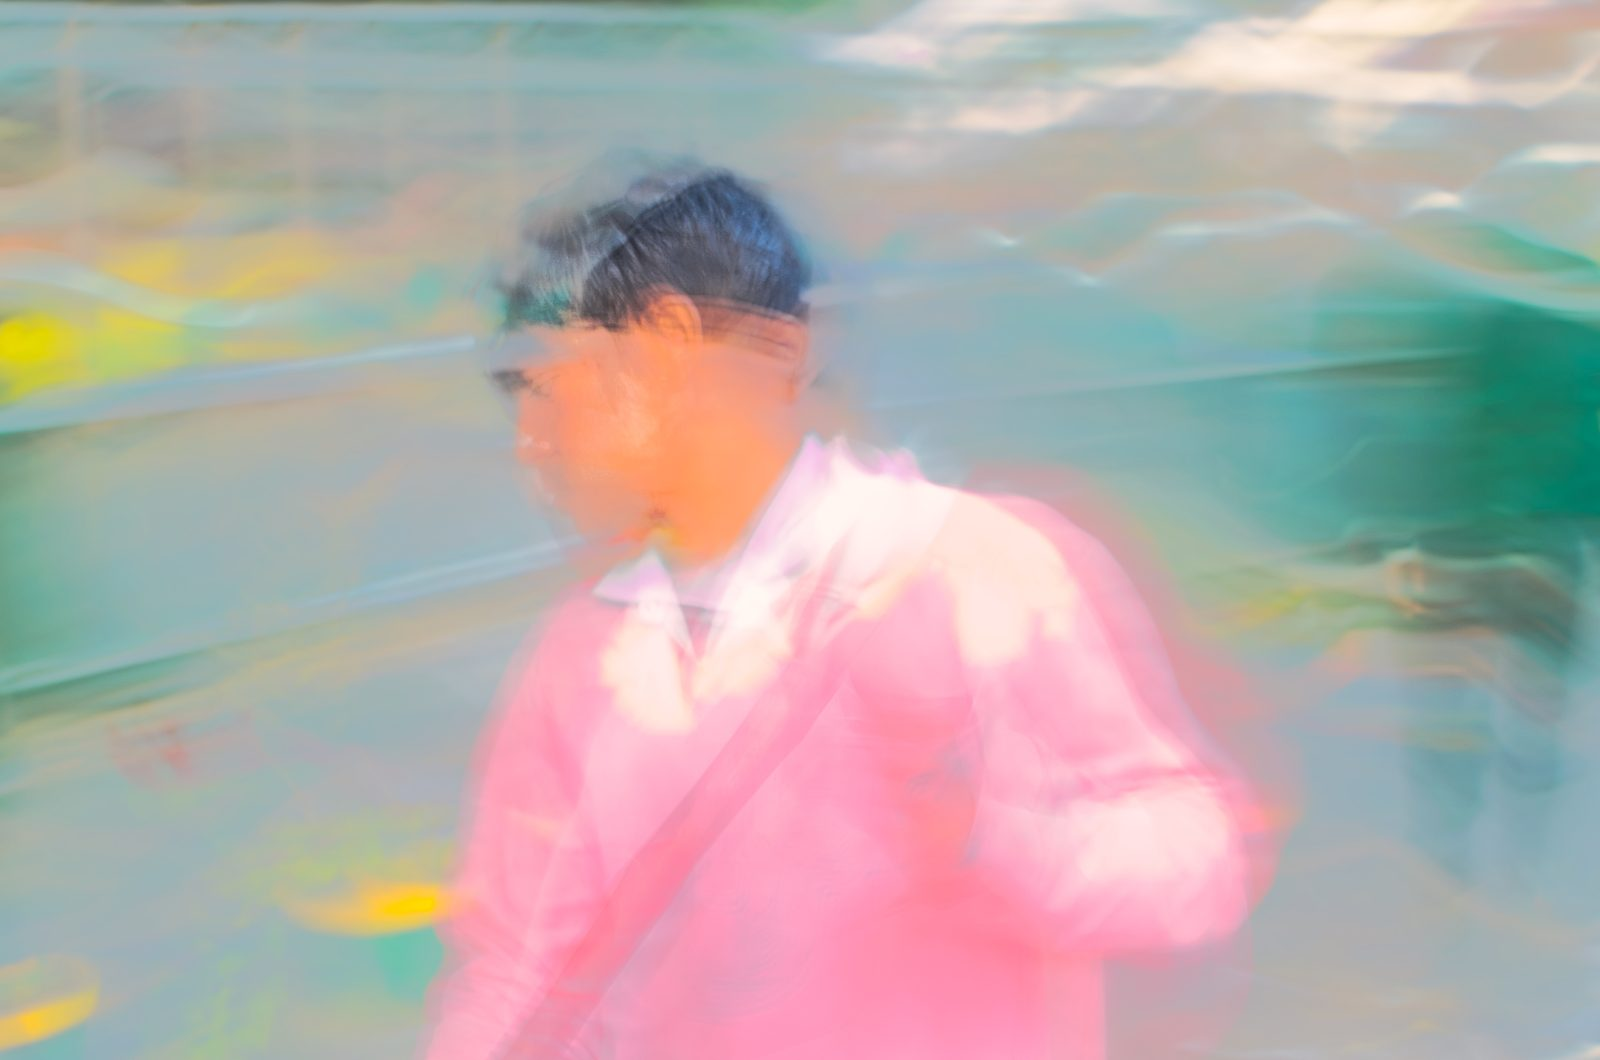
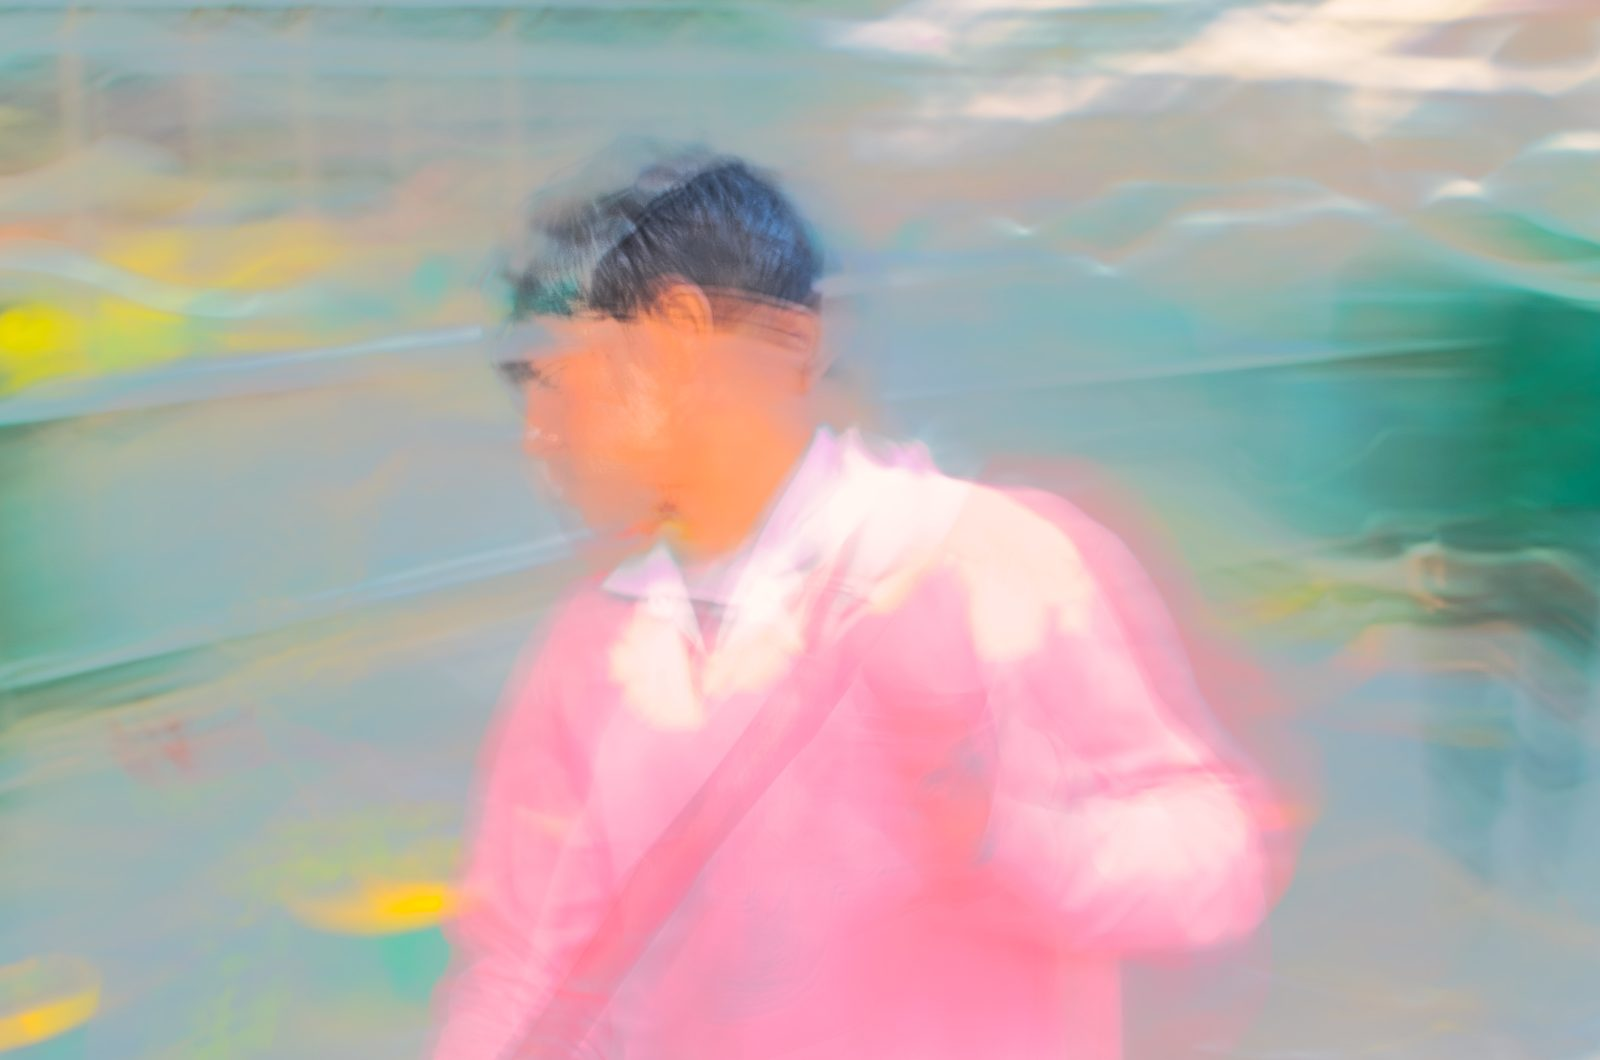
Nr. 8: neueste Fassung

diff --git a/en/overview.html b/en/overview.html
@@ -94,10 +94,10 @@
         </a>
       </li>
       <li>
-        <a href="../bilder/werk-08-2400.jpg?v=46ea5eb6" data-gross="../bilder/werk-08-2400.jpg?v=46ea5eb6"
-           data-srcset="../bilder/werk-08-1600.jpg?v=46ea5eb6 1600w, ../bilder/werk-08-2400.jpg?v=46ea5eb6 2400w"
+        <a href="../bilder/werk-08-2400.jpg?v=af008b46" data-gross="../bilder/werk-08-2400.jpg?v=af008b46"
+           data-srcset="../bilder/werk-08-1600.jpg?v=af008b46 1600w, ../bilder/werk-08-2400.jpg?v=af008b46 2400w"
            data-unterschrift="No. 8 · 2024">
-          <img src="../bilder/werk-08-1600.jpg?v=46ea5eb6" srcset="../bilder/werk-08-1000.jpg?v=46ea5eb6 1000w, ../bilder/werk-08-1600.jpg?v=46ea5eb6 1600w, ../bilder/werk-08-2400.jpg?v=46ea5eb6 2400w" sizes="(min-width: 1100px) 22vw, (min-width: 700px) 30vw, 45vw" width="1600" height="1059" alt="Photograph No. 8, 2024" loading="eager" decoding="async" fetchpriority="high">
+          <img src="../bilder/werk-08-1600.jpg?v=af008b46" srcset="../bilder/werk-08-1000.jpg?v=af008b46 1000w, ../bilder/werk-08-1600.jpg?v=af008b46 1600w, ../bilder/werk-08-2400.jpg?v=af008b46 2400w" sizes="(min-width: 1100px) 22vw, (min-width: 700px) 30vw, 45vw" width="1600" height="1059" alt="Photograph No. 8, 2024" loading="eager" decoding="async" fetchpriority="high">
           <span class="bu-nr">No. 8</span>
         </a>
       </li>

diff --git a/uebersicht.html b/uebersicht.html
@@ -94,10 +94,10 @@
         </a>
       </li>
       <li>
-        <a href="bilder/werk-08-2400.jpg?v=46ea5eb6" data-gross="bilder/werk-08-2400.jpg?v=46ea5eb6"
-           data-srcset="bilder/werk-08-1600.jpg?v=46ea5eb6 1600w, bilder/werk-08-2400.jpg?v=46ea5eb6 2400w"
+        <a href="bilder/werk-08-2400.jpg?v=af008b46" data-gross="bilder/werk-08-2400.jpg?v=af008b46"
+           data-srcset="bilder/werk-08-1600.jpg?v=af008b46 1600w, bilder/werk-08-2400.jpg?v=af008b46 2400w"
            data-unterschrift="Nr. 8 · 2024">
-          <img src="bilder/werk-08-1600.jpg?v=46ea5eb6" srcset="bilder/werk-08-1000.jpg?v=46ea5eb6 1000w, bilder/werk-08-1600.jpg?v=46ea5eb6 1600w, bilder/werk-08-2400.jpg?v=46ea5eb6 2400w" sizes="(min-width: 1100px) 22vw, (min-width: 700px) 30vw, 45vw" width="1600" height="1059" alt="Fotografie Nr. 8, 2024" loading="eager" decoding="async" fetchpriority="high">
+          <img src="bilder/werk-08-1600.jpg?v=af008b46" srcset="bilder/werk-08-1000.jpg?v=af008b46 1000w, bilder/werk-08-1600.jpg?v=af008b46 1600w, bilder/werk-08-2400.jpg?v=af008b46 2400w" sizes="(min-width: 1100px) 22vw, (min-width: 700px) 30vw, 45vw" width="1600" height="1059" alt="Fotografie Nr. 8, 2024" loading="eager" decoding="async" fetchpriority="high">
           <span class="bu-nr">Nr. 8</span>
         </a>
       </li>

diff --git a/en/index.html b/en/index.html
@@ -75,7 +75,7 @@
       <figcaption><span class="bu-nr">No. 7</span><span class="bu-meta">2024</span></figcaption>
     </figure>
     <figure class="werk werk--mitte" id="werk-8" style="--ar:1.5106">
-      <img src="../bilder/werk-08-1600.jpg?v=46ea5eb6" srcset="../bilder/werk-08-1000.jpg?v=46ea5eb6 1000w, ../bilder/werk-08-1600.jpg?v=46ea5eb6 1600w, ../bilder/werk-08-2400.jpg?v=46ea5eb6 2400w" sizes="(min-width: 900px) 70vw, 100vw" width="1600" height="1059" alt="Photograph No. 8, 2024" loading="lazy" decoding="async">
+      <img src="../bilder/werk-08-1600.jpg?v=af008b46" srcset="../bilder/werk-08-1000.jpg?v=af008b46 1000w, ../bilder/werk-08-1600.jpg?v=af008b46 1600w, ../bilder/werk-08-2400.jpg?v=af008b46 2400w" sizes="(min-width: 900px) 70vw, 100vw" width="1600" height="1059" alt="Photograph No. 8, 2024" loading="lazy" decoding="async">
       <figcaption><span class="bu-nr">No. 8</span><span class="bu-meta">2024</span></figcaption>
     </figure>
     <figure class="werk werk--mitte" id="werk-9" style="--ar:1.5106">

diff --git a/index.html b/index.html
@@ -75,7 +75,7 @@
       <figcaption><span class="bu-nr">Nr. 7</span><span class="bu-meta">2024</span></figcaption>
     </figure>
     <figure class="werk werk--mitte" id="werk-8" style="--ar:1.5106">
-      <img src="bilder/werk-08-1600.jpg?v=46ea5eb6" srcset="bilder/werk-08-1000.jpg?v=46ea5eb6 1000w, bilder/werk-08-1600.jpg?v=46ea5eb6 1600w, bilder/werk-08-2400.jpg?v=46ea5eb6 2400w" sizes="(min-width: 900px) 70vw, 100vw" width="1600" height="1059" alt="Fotografie Nr. 8, 2024" loading="lazy" decoding="async">
+      <img src="bilder/werk-08-1600.jpg?v=af008b46" srcset="bilder/werk-08-1000.jpg?v=af008b46 1000w, bilder/werk-08-1600.jpg?v=af008b46 1600w, bilder/werk-08-2400.jpg?v=af008b46 2400w" sizes="(min-width: 900px) 70vw, 100vw" width="1600" height="1059" alt="Fotografie Nr. 8, 2024" loading="lazy" decoding="async">
       <figcaption><span class="bu-nr">Nr. 8</span><span class="bu-meta">2024</span></figcaption>
     </figure>
     <figure class="werk werk--mitte" id="werk-9" style="--ar:1.5106">
